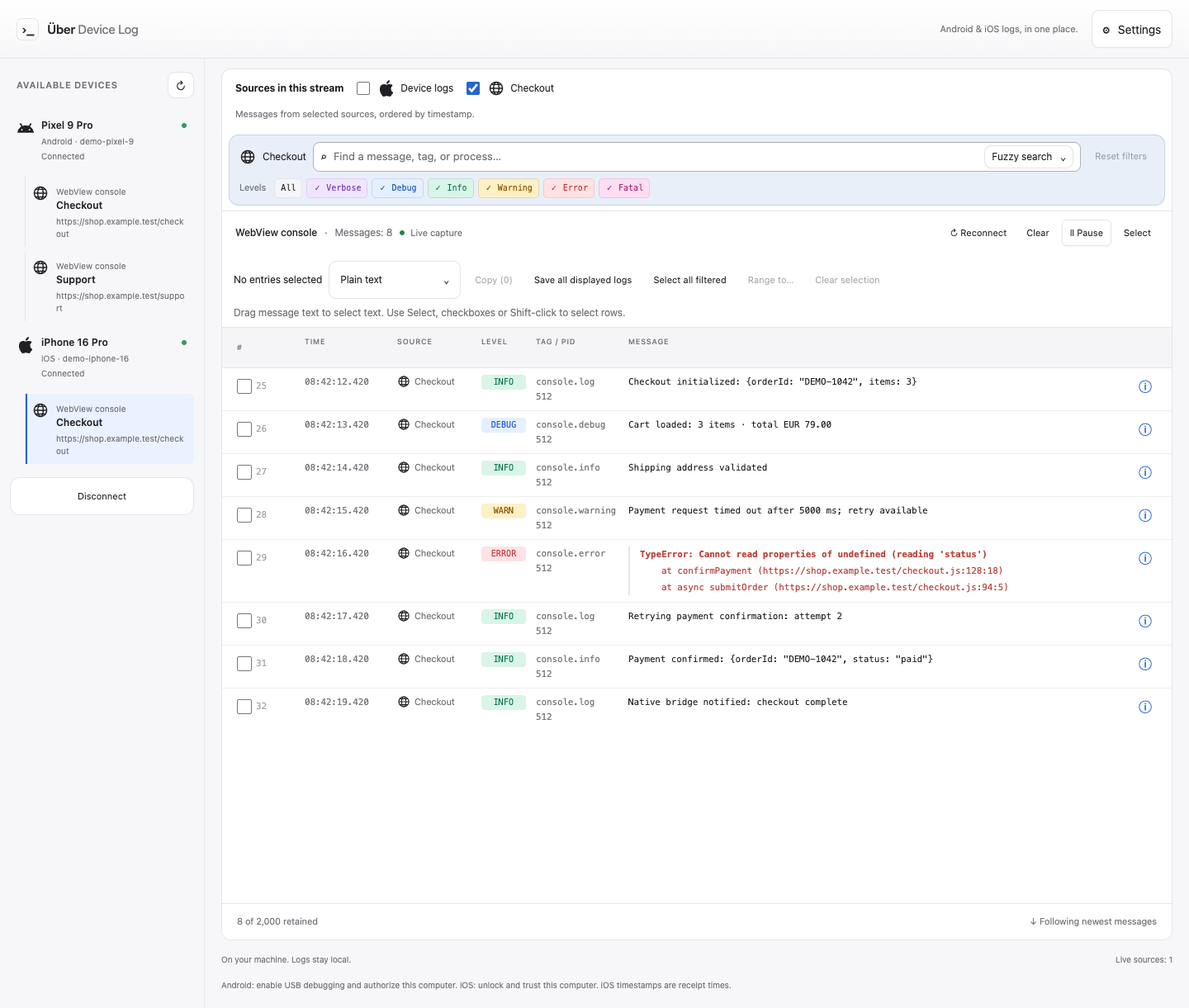
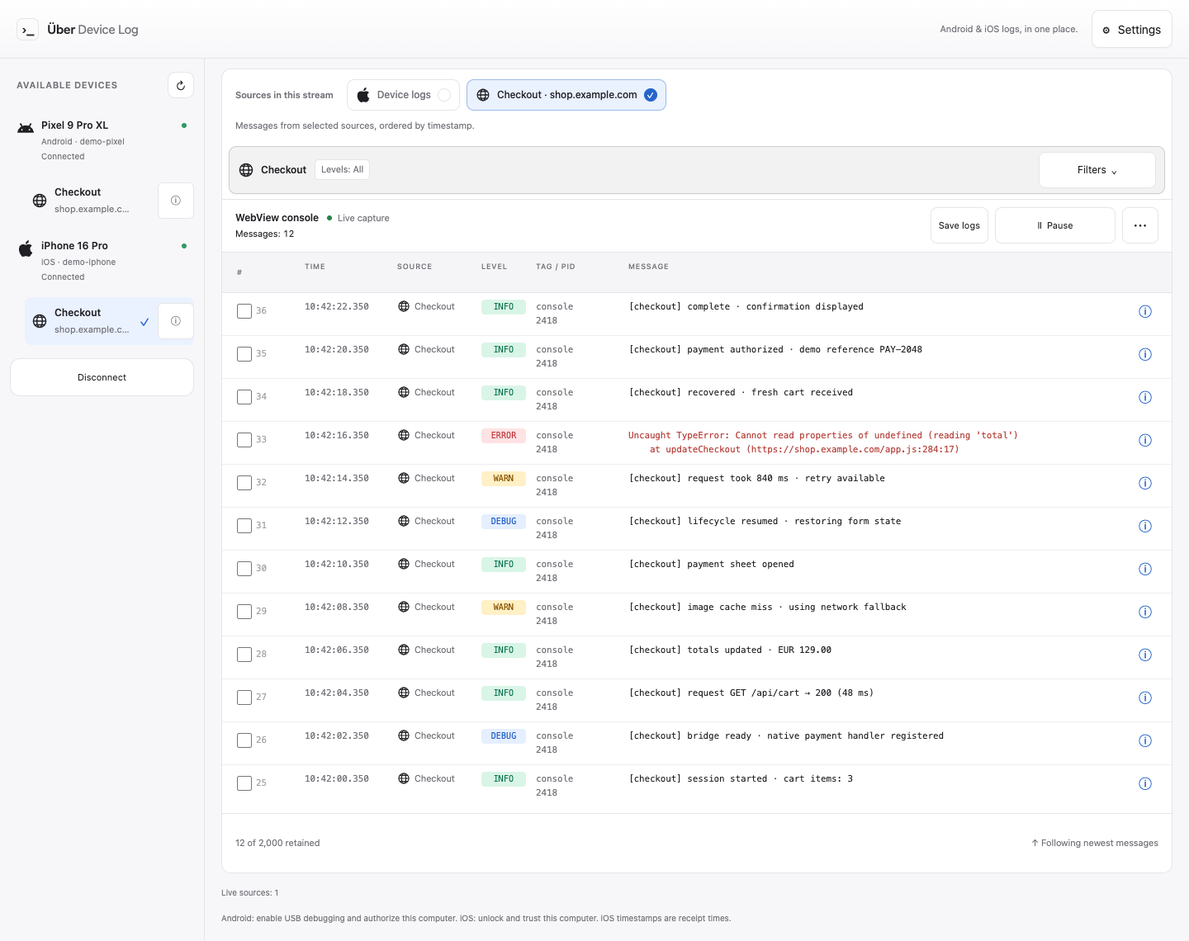
docs: refresh screenshots and streamline getting started

diff --git a/website/index.html b/website/index.html
@@ -18,10 +18,10 @@
 <header class="nav wrap"><a class="brand" href="#"><span class="mark">›_</span> Über <span>Device Log</span></a><nav><a href="#features" data-t="siteFeatures">Features</a><a href="https://github.com/PMelch/uber-device-log">GitHub ↗</a><label><span class="sr" data-t="language">Language</span><select id="language"></select></label></nav></header>
 <main id="main">
 <section class="hero wrap"><div class="eyebrow"><span class="dot"></span> ANDROID + iOS <span class="slash">/</span> <span data-t="siteOpenSource">OPEN SOURCE</span></div><p class="combined-badge" data-t="siteCombined">Hybrid app logging · Native + WebView</p><div class="hero-grid"><div><h1><span data-t="siteHero">Android Logcat</span><br><em data-t="siteHeroAccent">&amp; iOS syslog.</em></h1><p class="lede" data-t="siteLead">Built for hybrid apps: bring native Android Logcat or iOS syslog together with WebView console output in one browser workspace. Search, inspect and export native and JavaScript logs from your device together.</p><div class="hero-actions"><a class="button primary" href="#install" data-t="siteStart">Get started →</a><a class="text-link" href="#preview" data-t="siteExplore">Explore the viewer ↘</a></div><a class="hero-command" href="#install"><code>npx uber-device-log</code><span aria-hidden="true">↗</span></a></div></div></section>
-<section id="preview" class="preview wrap"><div class="section-label"><span>01 / <span data-t="siteInAction">The real thing</span></span><span data-t="siteDemo">Actual app · fictional demo logs</span></div><a class="screenshot" href="images/log-viewer.png" target="_blank" rel="noopener"><img src="images/log-viewer.png" data-alt="siteScreenshot" alt="Android Logcat and WebView console messages with independent source filters" width="1425" height="1150"></a><div class="preview-caption"><span data-t="siteCaption">Device logs and JavaScript context. One view.</span><span>⌘ / Ctrl + C</span></div></section>
-<section id="webview" class="webview-section"><div class="wrap webview-grid"><div><div class="section-label">02 / WebView</div><h2 data-t="siteWebviewTitle">WebView device logging for hybrid apps.</h2><p data-t="siteWebviewBody">Capture JavaScript console calls and uncaught exceptions from inspectable Android and iOS WebViews. View WebView console output alongside native logs from the same device, merged by timestamp.</p><p data-t="siteHybridBody">A hybrid app brings a web app running in a WebView together with native code. Web app logging alone shows only part of the picture. Über Device Log provides combined logging: see JavaScript console output alongside native logs from the same device, merged by timestamp with each source identified. If your app uses multiple inspectable WebViews, you can include their consoles too.</p><p data-t="siteWebviewFilters">Search each source independently, filter Android and WebView severity, and export entries with their source identity intact. Native iOS syslog has no severity filter.</p><p class="platform-note" data-t="siteWebviewSetup">Android apps must enable WebView debugging. On iOS, enable Safari’s Web Inspector and expose the app’s WKWebView for inspection. No additional proxy, browser extension or Appium server required.</p><a class="text-link" href="https://github.com/PMelch/uber-device-log#android-webview-consoles" data-t="siteWebviewDocs">WebView setup guide ↗</a></div><figure><a class="screenshot" href="images/webview-console.png" target="_blank" rel="noopener"><img src="images/webview-console.png" data-alt="siteWebviewAlt" alt="iPhone WebView console with JavaScript messages, warnings and an exception" loading="lazy"></a><figcaption data-t="siteDemo">Actual app · fictional demo logs</figcaption></figure></div></section>
-<section id="features" class="features wrap"><div class="section-label">03 / <span data-t="siteFeatures">Features</span></div><h2 data-t="siteFeatureTitle">Made for the moment something breaks.</h2><div class="cards"><article><span class="feature-icon">⌕</span><h3 data-t="siteFind">Search everything</h3><p data-t="siteFindBody">Search each source with fuzzy or literal matching. Filter Android and WebView entries by severity; native Android logs also support exact tag and PID filters.</p></article><article><span class="feature-icon">Ⅱ</span><h3 data-t="sitePause">Read at your pace</h3><p data-t="sitePauseBody">Freeze the view while capture continues. Select complete entries, inspect their details, then jump back to live.</p></article><article><span class="feature-icon">{ }</span><h3 data-t="siteExport">Export the context</h3><p data-t="siteExportBody">Copy or save selected entries as plain text or structured JSON. Original messages, metadata and multiline traces stay intact.</p></article></div></section>
-<section class="detail-section"><div class="wrap detail-grid"><div><div class="section-label">04 / <span data-t="siteDetails">A closer look</span></div><h2 data-t="siteDetailTitle">A log line is just the beginning.</h2><p class="lede" data-t="siteDetailBody">Open the info button to unpack a message: process, source, exception, path and reported reason, when available. Parsing rules explain recognized patterns without pretending to know the root cause.</p><div class="tags"><span>Android logcat</span><span>iOS syslog</span><span>WebView</span><span>JSON</span></div><a class="text-link" href="https://github.com/PMelch/uber-device-log/blob/main/docs/technical.md" data-t="siteDocs">Read the technical docs ↗</a></div><figure><img src="images/message-details.png" data-alt="siteDetailAlt" alt="Message details with file path, exception and error code" width="436" height="562" loading="lazy"><figcaption data-t="siteDemo">Actual app · fictional demo logs</figcaption></figure></div></section>
+<section id="preview" class="preview wrap"><div class="section-label"><span>01 / <span data-t="siteInAction">The real thing</span></span><span data-t="siteDemo">Actual app · fictional demo logs</span></div><a class="screenshot" href="images/log-viewer.png" target="_blank" rel="noopener"><img src="images/log-viewer.png" data-alt="siteScreenshot" alt="Android Logcat and WebView console messages with independent source filters" width="1440" height="1204"></a><div class="preview-caption"><span data-t="siteCaption">Device logs and JavaScript context. One view.</span><span>⌘ / Ctrl + C</span></div></section>
+<section id="webview" class="webview-section"><div class="wrap webview-grid"><div><div class="section-label">02 / WebView</div><h2 data-t="siteWebviewTitle">WebView device logging for hybrid apps.</h2><p data-t="siteWebviewBody">Capture JavaScript console calls and uncaught exceptions from inspectable Android and iOS WebViews. View WebView console output alongside native logs from the same device, merged by timestamp.</p><p data-t="siteHybridBody">A hybrid app brings a web app running in a WebView together with native code. Web app logging alone shows only part of the picture. Über Device Log provides combined logging: see JavaScript console output alongside native logs from the same device, merged by timestamp with each source identified. If your app uses multiple inspectable WebViews, you can include their consoles too.</p><p data-t="siteWebviewFilters">Search each source independently, filter Android and WebView severity, and export entries with their source identity intact. Native iOS syslog has no severity filter.</p><p class="platform-note" data-t="siteWebviewSetup">Android apps must enable WebView debugging. On iOS, enable Safari’s Web Inspector and expose the app’s WKWebView for inspection. No additional proxy, browser extension or Appium server required.</p><a class="text-link" href="https://github.com/PMelch/uber-device-log#android-webview-consoles" data-t="siteWebviewDocs">WebView setup guide ↗</a></div><figure><a class="screenshot" href="images/webview-console.png" target="_blank" rel="noopener"><img src="images/webview-console.png" data-alt="siteWebviewAlt" alt="iPhone WebView console with JavaScript messages, warnings and an exception" loading="lazy" width="1440" height="1140"></a><figcaption data-t="siteDemo">Actual app · fictional demo logs</figcaption></figure></div></section>
+<section id="features" class="features wrap"><div class="section-label">03 / <span data-t="siteFeatures">Features</span></div><h2 data-t="siteFeatureTitle">Made for the moment something breaks.</h2><div class="cards"><article><span class="feature-icon">⌕</span><h3 data-t="siteFind">Search everything</h3><p data-t="siteFindBody">Open a source’s filters for fuzzy or literal search. See active filters at a glance in its row. Android and WebView support severity filtering; native Android also supports exact tag and PID filters.</p></article><article><span class="feature-icon">Ⅱ</span><h3 data-t="sitePause">Read at your pace</h3><p data-t="sitePauseBody">Freeze the view while capture continues. Select complete entries, inspect their details, then jump back to live.</p></article><article><span class="feature-icon">{ }</span><h3 data-t="siteExport">Export the context</h3><p data-t="siteExportBody">Copy or save selected entries as plain text or structured JSON. Original messages, metadata and multiline traces stay intact.</p></article></div></section>
+<section class="detail-section"><div class="wrap detail-grid"><div><div class="section-label">04 / <span data-t="siteDetails">A closer look</span></div><h2 data-t="siteDetailTitle">A log line is just the beginning.</h2><p class="lede" data-t="siteDetailBody">Open the info button to unpack a message: process, source, exception, path and reported reason, when available. Parsing rules explain recognized patterns without pretending to know the root cause.</p><div class="tags"><span>Android logcat</span><span>iOS syslog</span><span>WebView</span><span>JSON</span></div><a class="text-link" href="https://github.com/PMelch/uber-device-log/blob/main/docs/technical.md" data-t="siteDocs">Read the technical docs ↗</a></div><figure><img src="images/message-details.png" data-alt="siteDetailAlt" alt="Message details with file path, exception and error code" loading="lazy" width="420" height="556"><figcaption data-t="siteDemo">Actual app · fictional demo logs</figcaption></figure></div></section>
 <section class="features wrap"><h2 data-t="sitePlatforms">Android Logcat and iOS syslog on macOS, Windows and Linux</h2><p data-t="sitePlatformBody">Android Logcat uses ADB from Android SDK Platform Tools on macOS, Windows and Linux. For iPhone and iPad syslog, macOS uses Apple’s device service; Linux needs usbmuxd, and Windows needs compatible Apple mobile-device support. macOS is the primary validation environment; Windows and Linux still need validation.</p></section>
 <section id="install" class="install wrap"><div class="section-label">05 / <span data-t="siteStart">Get started →</span></div><div class="install-grid"><div><h2 data-t="siteInstallTitle">One command. Then connect.</h2><p data-t="siteRequirements">Requires Node.js 22.12.0 or later and a browser. Node.js must be on PATH, even with bunx. Run with npx or bunx, or install globally and launch with udl.</p><p class="platform-note" data-t="siteSetup">iOS capture uses the legacy syslog relay (com.apple.syslog_relay), not the full Apple unified logging system shown in Console or Xcode. Unlock and trust the device; available logs depend on the device and iOS version.</p></div><div><div class="install-tabs" role="group" data-label="siteCommand" aria-label="Installation method"><button class="active" data-command="npx uber-device-log" aria-pressed="true">npx</button><button data-command="bunx uber-device-log" aria-pressed="false">bunx</button><button data-command="npm install --global uber-device-log\nudl" aria-pressed="false" data-t="siteGlobal">Global install</button></div><div class="install-code"><pre><code id="install-command">npx uber-device-log</code></pre><button id="copy" data-t="siteCopy">Copy</button></div><p id="copy-status" role="status"></p><a class="text-link" href="https://github.com/PMelch/uber-device-log#connect-a-device" data-t="siteSetupLink">Device setup &amp; capture limits ↗</a></div></div></section>
 <section class="closing wrap"><span class="mark">›_</span><p data-t="siteClosingBody">Seven interface languages. Open source.</p><a class="button secondary" href="https://github.com/PMelch/uber-device-log" data-t="siteGithub">Explore on GitHub ↗</a></section>

diff --git a/src/i18n/website.ts b/src/i18n/website.ts
@@ -15,7 +15,7 @@ const en = {
   "siteCaption": "Device logs and JavaScript context. One view.",
   "siteFeatureTitle": "Made for the moment something breaks.",
   "siteFind": "Search everything",
-  "siteFindBody": "Search each source with fuzzy or literal matching. Filter Android and WebView entries by severity; native Android logs also support exact tag and PID filters.",
+  "siteFindBody": "Open a source’s filters for fuzzy or literal search. See active filters at a glance in its row. Android and WebView support severity filtering; native Android also supports exact tag and PID filters.",
   "sitePause": "Read at your pace",
   "sitePauseBody": "Freeze the view while capture continues. Select complete entries, inspect their details, then jump back to live.",
   "siteExport": "Export the context",
@@ -67,7 +67,7 @@ const de = {
   "siteCaption": "Geräte-Logs und JavaScript-Kontext. Eine Ansicht.",
   "siteFeatureTitle": "Für den Moment, in dem etwas schiefgeht.",
   "siteFind": "Alles durchsuchen",
-  "siteFindBody": "Durchsuche jede Quelle unscharf oder wortgetreu. Filtere Android- und WebView-Einträge nach Schweregrad; native Android-Logs bieten zusätzlich exakte Tag- und PID-Filter.",
+  "siteFindBody": "Öffne die Filter einer Quelle für unscharfe oder wörtliche Suche. Aktive Filter siehst du direkt in ihrer Zeile. Android und WebView unterstützen Schweregradfilter; natives Android zusätzlich exakte Tag- und PID-Filter.",
   "sitePause": "In Ruhe lesen",
   "sitePauseBody": "Halte die Ansicht an, während die Erfassung weiterläuft. Wähle ganze Einträge aus, prüfe ihre Details und kehre zur Live-Ansicht zurück.",
   "siteExport": "Kontext exportieren",
@@ -119,7 +119,7 @@ const es = {
   "siteCaption": "Logs del dispositivo y contexto JavaScript. Una sola vista.",
   "siteFeatureTitle": "Para cuando algo falla.",
   "siteFind": "Busca en todo",
-  "siteFindBody": "Busca en cada origen con coincidencia aproximada o literal. Filtra entradas Android y WebView por nivel; los logs nativos de Android también permiten filtros exactos de etiqueta y PID.",
+  "siteFindBody": "Abre los filtros de una fuente para buscar de forma aproximada o literal. Consulta los filtros activos en su fila. Android y WebView permiten filtrar por nivel; Android nativo también admite filtros exactos de etiqueta y PID.",
   "sitePause": "Lee a tu ritmo",
   "sitePauseBody": "Pausa la vista mientras continúa la captura. Selecciona entradas completas, revisa sus detalles y vuelve al directo.",
   "siteExport": "Exporta el contexto",
@@ -171,7 +171,7 @@ const fr = {
   "siteCaption": "Logs de l’appareil et contexte JavaScript. Une seule vue.",
   "siteFeatureTitle": "Pour le moment où quelque chose casse.",
   "siteFind": "Cherchez partout",
-  "siteFindBody": "Recherchez dans chaque source par correspondance approximative ou littérale. Filtrez les entrées Android et WebView par niveau ; les logs natifs Android proposent aussi des filtres exacts de tag et PID.",
+  "siteFindBody": "Ouvrez les filtres d’une source pour une recherche approximative ou littérale. Les filtres actifs apparaissent dans sa ligne. Android et WebView permettent de filtrer par niveau ; Android natif propose aussi des filtres exacts par tag et PID.",
   "sitePause": "Lisez à votre rythme",
   "sitePauseBody": "Figez la vue pendant que la capture continue. Sélectionnez des entrées complètes, inspectez leurs détails et revenez au direct.",
   "siteExport": "Exportez le contexte",
@@ -223,7 +223,7 @@ const it = {
   "siteCaption": "Log del dispositivo e contesto JavaScript. Un’unica vista.",
   "siteFeatureTitle": "Per quando qualcosa non funziona.",
   "siteFind": "Cerca ovunque",
-  "siteFindBody": "Cerca in ogni origine con corrispondenza approssimata o letterale. Filtra le voci Android e WebView per gravità; i log nativi Android offrono anche filtri esatti per tag e PID.",
+  "siteFindBody": "Apri i filtri di una sorgente per la ricerca approssimata o letterale. I filtri attivi sono visibili nella sua riga. Android e WebView supportano i filtri per livello; Android nativo offre anche filtri esatti per tag e PID.",
   "sitePause": "Leggi con calma",
   "sitePauseBody": "Ferma la vista mentre la cattura continua. Seleziona voci complete, esamina i dettagli e torna alla vista in tempo reale.",
   "siteExport": "Esporta il contesto",
@@ -275,7 +275,7 @@ const zhCN = {
   "siteCaption": "设备日志与 JavaScript 上下文，一个视图尽览。",
   "siteFeatureTitle": "为故障发生的那一刻而设计。",
   "siteFind": "全面搜索",
-  "siteFindBody": "对每个来源进行模糊或字面匹配搜索。按级别筛选 Android 和 WebView 条目；Android 原生日志还支持标签和 PID 的精确筛选。",
+  "siteFindBody": "打开来源的筛选面板，即可进行模糊或字面搜索。当前筛选条件直接显示在来源行中。Android 和 WebView 支持按级别筛选；原生 Android 还支持精确匹配标签和 PID。",
   "sitePause": "按自己的节奏阅读",
   "sitePauseBody": "暂停视图，同时继续采集。选择完整条目，查看详情，然后返回实时视图。",
   "siteExport": "导出上下文",
@@ -327,7 +327,7 @@ const ja = {
   siteCaption: "デバイスのログと JavaScript の情報を、一つの画面で。",
   siteFeatureTitle: '問題が起きたときのために。',
   siteFind: 'ログ全体を検索',
-  siteFindBody: "ソースごとにあいまい検索または文字列の一致検索ができます。Android と WebView のログレベルを絞り込めます。Android のネイティブログではタグと PID の完全一致フィルターも使えます。",
+  siteFindBody: "ソースのフィルターを開くと、あいまい検索や文字列の一致検索ができます。有効なフィルターはソースの行で確認できます。Android と WebView はログレベルによる絞り込みに対応し、ネイティブ Android ではタグと PID の完全一致でも絞り込めます。",
   sitePause: '自分のペースで読む',
   sitePauseBody: '取得を続けたまま表示を一時停止できます。ログを丸ごと選択し、詳細を確認したら、ライブ表示に戻れます。',
   siteExport: '関連情報もまとめてエクスポート',

diff --git a/src/i18n/context.ts b/src/i18n/context.ts
@@ -308,7 +308,7 @@ export const websiteTranslationContext = {
   },
   "siteFindBody": {
     "location": "Public landing page: FindBody",
-    "meaning": "Feature card: fuzzy and literal search per source; severity filters apply to Android and WebView, never native iOS syslog. No placeholders."
+    "meaning": "Feature card: open each source’s filter panel; current restrictions are summarized directly in its row. Fuzzy and literal search are supported. Severity filters apply to Android and WebView, never native iOS syslog. No placeholders."
   },
   "sitePause": {
     "location": "Public landing page: Pause",

diff --git a/README.md b/README.md
@@ -2,6 +2,11 @@
 
 # Über Device Log
 
+[![npm version](https://img.shields.io/npm/v/uber-device-log?logo=npm)](https://www.npmjs.com/package/uber-device-log)
+[![Open GitHub issues](https://img.shields.io/github/issues/PMelch/uber-device-log)](https://github.com/PMelch/uber-device-log/issues)
+[![License: Apache-2.0](https://img.shields.io/github/license/PMelch/uber-device-log)](LICENSE)
+[![Node.js: >=22.12.0](https://img.shields.io/badge/Node.js-%3E%3D22.12.0-339933?logo=nodedotjs&logoColor=white)](https://nodejs.org/en/download)
+
 **Android Logcat, iOS syslog & WebView consoles, in one place.**
 
 A browser-based **Android Logcat, iOS syslog and WebView console viewer**,
@@ -144,96 +149,29 @@ service; no additional proxy, browser extension or Appium server is required.
 
 ## Using the viewer
 
-### Find a message
-
-Open **Filters** on a source and type in its search field to search message text and metadata. Use Android
-and WebView severity buttons to narrow the view further. Native iOS syslog does
-not provide severity filtering. Change **Message order** in **Settings** to show
-newest entries first or last. Scrolling away stops automatic following;
-**Follow latest** resumes it.
-
-Choose **Fuzzy search** for typo-tolerant matching or **Literal search** for a
-case-insensitive, contiguous phrase in a single message or metadata field.
-Literal search treats punctuation as text, without regular expressions.
-For native Android logs, open **Filters** and expand **Advanced filters**. **Exact Android tag** matches
-the entire tag with case sensitivity;
-**Exact Android PID** matches the numeric process ID. Combine these with search
-and severity filters. Invalid PIDs show a validation message and no results.
-**Reset filters** clears search, tag, PID and severity restrictions while keeping
-the chosen search mode. These controls only filter the view; capture continues,
-and Copy/Save use the displayed filtered entries.
-
-### Combine device and WebView logs
-
-Select a device or WebView, then enable the desired sources above the stream.
-The source checkboxes combine native logs and one or more WebView consoles from
-the selected device. Each source has independent search and severity controls
-(except native iOS syslog); native Android logs also have exact tag and PID
-filters. Entries merge by timestamp and show the
-platform or WebView icon beside their source. A stopped WebView does not stop
-the other sources. Re-enabling a source replaces its previous buffer with the
-new capture, since collectors can replay their history.
-
-Selecting a device or WebView in the device list starts a fresh view with that
-source alone. Use the checkboxes to add other sources. Only the parent device
-is remembered across reloads; WebView page targets are temporary.
-
-WebView console timestamps come from CDP on Android and WebKit on iOS, with host
-receipt time as a fallback. Native iOS syslog uses host receipt time, so merged
-timestamps do not guarantee the exact causal order of device events.
+1. **Choose your sources.** View native device logs, a WebView console, or both
+   together in a stream ordered by timestamp.
+2. **Find relevant messages.** Search each source independently with fuzzy or
+   literal matching. Filter Android and WebView logs by severity, and native
+   Android logs by exact tag or PID.
+3. **Inspect what happened.** Pause the view while capture continues and inspect
+   message metadata, exceptions and original text.
+4. **Share the context.** Copy or save selected entries or filtered logs as plain
+   text or structured JSON, preserving source identity and multiline traces.
 
 ![An iPhone WebView console showing JavaScript messages, warnings and an exception](docs/images/webview-console.png)
 
-WebView capture reads console output. It does not offer JavaScript execution,
-expandable object inspection, a DOM inspector or a network panel.
+Available in **English, Spanish, German, French, Italian, Japanese and Simplified
+Chinese**, with light, dark and system appearance. Original logs remain unchanged.
 
-Exports retain source identity: plain text prefixes each entry with its source
-name, and structured JSON uses schema version 2 with source metadata per entry.
-
-### Pause, inspect, resume
-
-**Pause** freezes the view while capture continues. **Back to live** is gently
-highlighted while paused; click it to resume and clear your selection. The paused
-arrival counter includes all incoming records, even those already evicted from the
-buffer. Resuming displays only the retained records.
-
-Hover over an entry's **ⓘ** button to inspect its metadata and interpretation.
-The card offers **Details**, **Original**, and **JSON** views. Click the info button
-again or use **×** to close it. Scrolling the list or selecting a row also closes it.
-Explanations describe patterns in the message; they are not definitive diagnoses.
-
-![Message details showing WebView exception metadata, interpretation and tabs for the original text and JSON](docs/images/message-details.png)
-
-### Copy or save
-
-Drag directly over message text for native text selection. This freezes the
-view while capture continues, including on touch devices.
-
-1. On touchscreens, tap **Select** first. On desktop, use checkboxes, **Shift-click** to extend,
-   or **Ctrl/Cmd-click** to toggle. Drag outside message text to select a range.
-2. Open **More actions** (•••) and choose **Plain text** or **Structured JSON**.
-3. Click **Copy** in the toolbar or **Save** in the actions menu.
-
-Selecting entries freezes the view so you can work without incoming messages
-moving the selection. **Select all filtered** in **More actions** selects the current results.
-Without a selection, **Save all displayed logs** saves the filtered view.
-Exports preserve whole entries, metadata and multiline messages, always oldest first regardless of the display order.
-
-### Choose your language
-
-**English · Español · Deutsch · Français · Italiano · 日本語 · 简体中文**
-
-Open **Settings** in the header to choose your language, appearance, message order,
-and buffer capacity. All four preferences are saved locally in this browser;
-System appearance follows your operating system. Changes apply immediately, and
-remain usable for the session if browser storage is blocked.
-
-<img src="docs/images/settings.png" alt="Settings popover with language, appearance, message order and buffer capacity" width="320">
-
-Your preferences survive reloads; captured logs are not saved. As always,
-original log messages and technical values are never translated.
+See the [user guide](docs/usage.md) for selection shortcuts, filter behavior,
+message details, export options and preferences.
 
 ## Good to know
+
+- WebView capture reads console output; it does not provide JavaScript execution,
+  DOM inspection or a network panel. Merged timestamps do not guarantee the exact
+  causal order of events across sources.
 
 - **Clear** empties the viewer, not the device's logs.
 - The buffer defaults to **2,000 messages**, with options up to **100,000**.
@@ -285,6 +223,7 @@ Release notes and upcoming changes: [CHANGELOG.txt](CHANGELOG.txt).
 
 | Guide | What's inside |
 | --- | --- |
+| [User guide](docs/usage.md) | Sources, filters, selection, message details, export and preferences |
 | [Technical documentation](docs/technical.md) | Development setup, architecture, API, export schema and capture limits |
 | [Architecture and code map](docs/architecture.md) | Data flow, module ownership, resource cleanup and state invariants |
 | [API and exports](docs/api.md) | HTTP/SSE contracts, source metadata, JSON versions and limits |

diff --git a/docs/usage.md b/docs/usage.md
@@ -1,0 +1,99 @@
+# Using Über Device Log
+
+For installation and device setup, see the [README](../README.md#get-started).
+
+## Find a message
+
+Each source row shows a compact summary of its current filters. **Levels: All**
+means severity is unrestricted; **No levels** means no severity is selected.
+Long filter values remain available in the summary tooltip and filter panel.
+
+Open **Filters** on a source and type in its search field to search message text and metadata. Use Android
+and WebView severity buttons to narrow the view further. Native iOS syslog does
+not provide severity filtering. Change **Message order** in **Settings** to show
+newest entries first or last. Scrolling away stops automatic following;
+**Follow latest** resumes it.
+
+Choose **Fuzzy search** for typo-tolerant matching or **Literal search** for a
+case-insensitive, contiguous phrase in a single message or metadata field.
+Literal search treats punctuation as text, without regular expressions.
+For native Android logs, open **Filters** and expand **Advanced filters**. **Exact Android tag** matches
+the entire tag with case sensitivity;
+**Exact Android PID** matches the numeric process ID. Combine these with search
+and severity filters. Invalid PIDs show a validation message and no results.
+**Reset filters** clears search, tag, PID and severity restrictions while keeping
+the chosen search mode. These controls only filter the view; capture continues,
+and Copy/Save use the displayed filtered entries.
+
+## Combine device and WebView logs
+
+Select a device or WebView, then enable the desired sources above the stream.
+The source chips combine native logs and one or more WebView consoles from
+the selected device. Each source has independent search and severity controls
+(except native iOS syslog); native Android logs also have exact tag and PID
+filters. Entries merge by timestamp and show the
+platform or WebView icon beside their source. A stopped WebView does not stop
+the other sources. Re-enabling a source replaces its previous buffer with the
+new capture, since collectors can replay their history.
+
+Selecting a device or WebView in the device list starts a fresh view with that
+source alone. WebViews show a compact title and domain; their **ⓘ** button opens
+the complete URL and target identifier. Use the source chips to add other sources. Only the parent device
+is remembered across reloads; WebView page targets are temporary.
+
+WebView console timestamps come from CDP on Android and WebKit on iOS, with host
+receipt time as a fallback. Native iOS syslog uses host receipt time, so merged
+timestamps do not guarantee the exact causal order of device events.
+
+![An iPhone WebView console showing JavaScript messages, warnings and an exception](images/webview-console.png)
+
+WebView capture reads console output. It does not offer JavaScript execution,
+expandable object inspection, a DOM inspector or a network panel.
+
+Exports retain source identity: plain text prefixes each entry with its source
+name, and structured JSON uses schema version 2 with source metadata per entry.
+
+## Pause, inspect, resume
+
+**Pause** freezes the view while capture continues. **Back to live** resumes the view and clears your selection. The paused
+arrival counter includes all incoming records, even those already evicted from the
+buffer. Resuming displays only the retained records.
+
+Hover over an entry's **ⓘ** button to inspect its metadata and interpretation.
+Click or tap **ⓘ** to pin the details open, including an existing hover preview.
+The card offers **Details**, **Original**, and **JSON** views. Click the info button
+again, press **Escape**, or use **×** to close it. Scrolling the list or selecting a row also closes it.
+Explanations describe patterns in the message; they are not definitive diagnoses.
+
+![Pinned Android message details showing a file path, exception, error code and interpretation](images/message-details.png)
+
+## Copy or save
+
+Drag directly over message text for native text selection. This freezes the
+view while capture continues, including on touch devices.
+
+1. On touchscreens, tap **Select** first. On desktop, use checkboxes, **Shift-click** to extend,
+   or **Ctrl/Cmd-click** to toggle. Drag outside message text to select a range.
+2. Open **More actions** (•••) and choose **Plain text** or **Structured JSON**.
+3. Click **Copy** or **Save logs** in the toolbar. On narrow screens, saving is
+   available in **More actions**.
+
+Selecting entries freezes the view so you can work without incoming messages
+moving the selection. **Select all filtered** in **More actions** selects the current results.
+Without a selection, **Save all displayed logs** saves the filtered view.
+Exports preserve whole entries, metadata and multiline messages, always oldest first regardless of the display order.
+
+## Choose your language
+
+**English · Español · Deutsch · Français · Italiano · 日本語 · 简体中文**
+
+Open **Settings** in the header to choose your language, appearance, message order,
+and buffer capacity. All four preferences are saved locally in this browser;
+System appearance follows your operating system. Changes apply immediately, and
+remain usable for the session if browser storage is blocked.
+
+<img src="images/settings.png" alt="Settings popover with language, appearance, message order and buffer capacity" width="320">
+
+Your preferences survive reloads; captured logs are not saved. As always,
+original log messages and technical values are never translated.
+

diff --git a/docs/website.md b/docs/website.md
@@ -59,3 +59,12 @@ wildcard or the website directories to the package allowlist.
 
 Check the final archive with `npm pack --dry-run --json` after building. The
 packaging smoke test also rejects files outside the application allowlist.
+
+## Refresh screenshots
+
+Build the application, then run `node scripts/capture-doc-screenshots.mjs`. Set
+`PLAYWRIGHT_MODULE` and `CHROME_EXECUTABLE` as for the browser regression scripts
+when using a separately installed Playwright runtime or Chrome. The script uses
+the real built UI with fictional device and log fixtures, and updates all four
+images in `docs/images/`. Inspect the images before committing, then rebuild the
+website so it copies the refreshed assets. No connected device is required.
